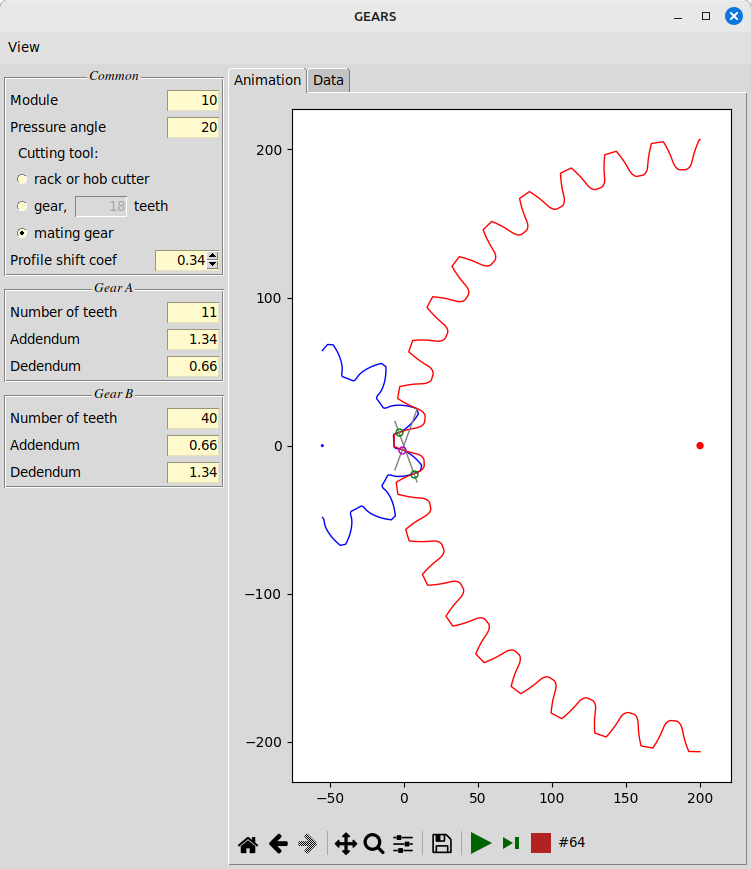
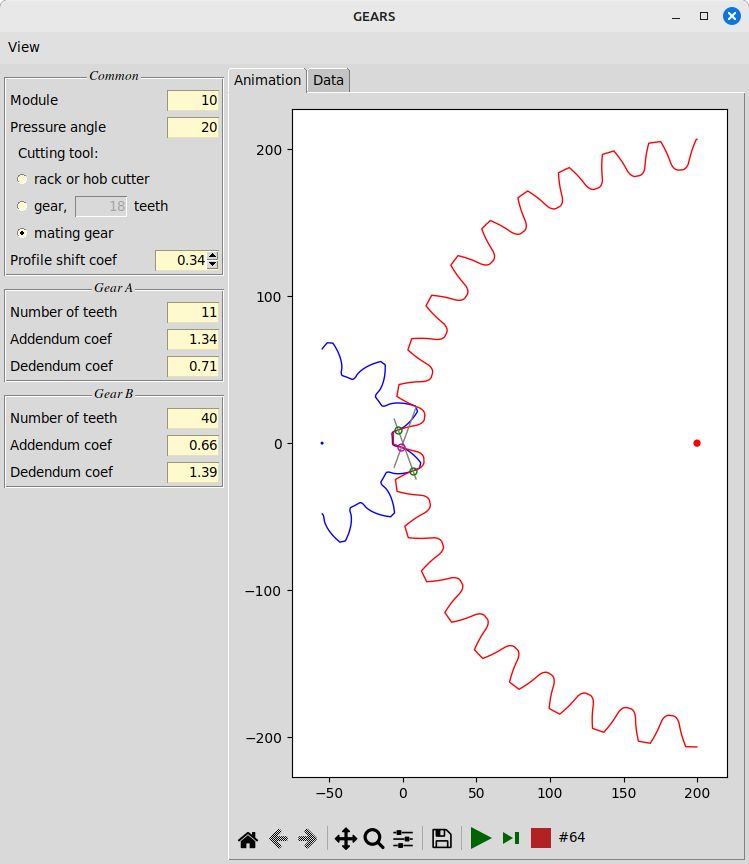
Minor fixes, update of docs

diff --git a/src/gears/gui.py b/src/gears/gui.py
@@ -275,12 +275,12 @@ class InputFrame(Frame):
         self.tooth_num0.grid(row=0, column=1, padx=2, pady=2, sticky=E)
         self.tooth_num0.insert(END, '40')
 
-        Label(params0_frame, text='Addendum').grid(row=1, column=0, padx=2, pady=2, sticky=W)
+        Label(params0_frame, text='Addendum coef').grid(row=1, column=0, padx=2, pady=2, sticky=W)
         self.ad_coef0 = EntryValid(params0_frame, self.input_callback, check_pos_finite, width=6, justify='right')
         self.ad_coef0.grid(row=1, column=1, padx=2, pady=2, sticky=E)
         self.ad_coef0.insert(END, '1')
 
-        Label(params0_frame, text='Dedendum').grid(row=2, column=0, padx=2, pady=2, sticky=W)
+        Label(params0_frame, text='Dedendum coef').grid(row=2, column=0, padx=2, pady=2, sticky=W)
         self.de_coef0 = EntryValid(params0_frame, self.input_callback, check_pos_finite, width=6, justify='right')
         self.de_coef0.grid(row=2, column=1, padx=2, pady=2, sticky=E)
         self.de_coef0.insert(END, '1')
@@ -296,18 +296,17 @@ class InputFrame(Frame):
         self.tooth_num1.grid(row=0, column=1, padx=2, pady=2, sticky=E)
         self.tooth_num1.insert(END, '40')
 
-        Label(params1_frame, text='Addendum').grid(row=1, column=0, padx=2, pady=2, sticky=W)
+        Label(params1_frame, text='Addendum coef').grid(row=1, column=0, padx=2, pady=2, sticky=W)
         self.ad_coef1 = EntryValid(params1_frame, self.input_callback, check_pos_finite, width=6, justify='right')
         self.ad_coef1.grid(row=1, column=1, padx=2, pady=2, sticky=E)
         self.ad_coef1.insert(END, '1')
 
-        Label(params1_frame, text='Dedendum').grid(row=2, column=0, padx=2, pady=2, sticky=W)
+        Label(params1_frame, text='Dedendum coef').grid(row=2, column=0, padx=2, pady=2, sticky=W)
         self.de_coef1 = EntryValid(params1_frame, self.input_callback, check_pos_finite, width=6, justify='right')
         self.de_coef1.grid(row=2, column=1, padx=2, pady=2, sticky=E)
         self.de_coef1.insert(END, '1')
 
         self.input_fields = get_entry_valid_recur(self)
-        # self.cutter_callback()
 
     # Input callbacks
     def input_callback(self) -> None:

diff --git a/src/gears/tooth_profile.py b/src/gears/tooth_profile.py
@@ -215,30 +215,30 @@ class HalfTooth(GearParams):
     def get_curves_equations(self) -> dict[str, dict[str, Any]]:
         return {
             'involute': {
-                'x': 'r * (np.cos(t_) + t * np.sin(t_))',
-                'y': 'r * (np.sin(t_) - t * np.cos(t_))',
+                'x': 'r * (cos(t_) + t * sin(t_))',
+                'y': 'r * (sin(t_) - t * cos(t_))',
                 't_': 't + a0',
                 'params': self.involute_params,
                 'lims': self.involute_lims
             },
             'epitrochoid': {
-                'x': '(R - l) * np.cos(t_) + t * R * np.sin(t_)' if self.is_rack else
-                '(R + r) * np.cos(t_) - d * np.cos(R * t / r + t_)',
-                'y': '(R - l) * np.sin(t_) - t * R * np.cos(t_)' if self.is_rack else
-                '(R + r) * np.sin(t_) - d * np.sin(R * t / r + t_)',
+                'x': '(R - l) * cos(t_) + t * R * sin(t_)' if self.is_rack else
+                '(R + r) * cos(t_) - d * cos(R * t / r + t_)',
+                'y': '(R - l) * sin(t_) - t * R * cos(t_)' if self.is_rack else
+                '(R + r) * sin(t_) - d * sin(R * t / r + t_)',
                 't_': 't + a0',
                 'params': self.epitrochoid_params,
                 'lims': self.epitrochoid_lims
             },
             'outside circle': {
-                'x': 'r * np.cos(t)',
-                'y': 'r * np.sin(t)',
+                'x': 'r * cos(t)',
+                'y': 'r * sin(t)',
                 'params': self.outside_circle_params,
                 'lims': self.outside_circle_lims
             },
             'root circle': {
-                'x': 'r * np.cos(t)',
-                'y': 'r * np.sin(t)',
+                'x': 'r * cos(t)',
+                'y': 'r * sin(t)',
                 'params': self.root_circle_params,
                 'lims': self.root_circle_lims
             }

diff --git a/README.md b/README.md
@@ -9,7 +9,7 @@ deformation under load, weight, etc., depending on the needs and capabilities of
 ![Contact zoom in](Contact_zoom_in.png)
 
 # Build
-Go to the directory with ```pyproject.toml``` file and run
+Clone the repository, or download it as archive and unzip. Go to the directory with ```pyproject.toml``` file and run
 ```
 python -m build
 ```
@@ -46,19 +46,34 @@ with another parameters, first click the __STOP__ button ![Stop button](src/gear
 
 ## Menu bar
 ### View menu
-Using the dropdown view menu, the plot components can be displayed or hidden.
+Using the dropdown view menu, the plot components can be displayed or hidden:
+* Gear A
+* Gear B
+* Action line
+* Contact points
+* Rack
 
 ## Sidebar
 Invalid input data is marked with pink background. User cannot start new simulation with invalid data (the
 [__PLAY__](src/gears/images/play.png) button is disabled).
 
 ### Common
+_module_ = _pitch diameter_ / _number of tooth_. Roughly speaking, it is the size of tooth.
+
+The _pressure angle_ is the angle at the pitch point between the action line and the tangent to the pitch circle.
+
 Сhoiсe of the cutting tool affects the shape of epitrochoid. To avoid pinion tooth undercut (find it in the __Data__
 tab), select the proper
 _Profile shift coef_. If to click __Up__ and __Down__ buttons, addendums and dedendums instantly follow changes of
 _Profile shift coef_. However, if the later should be changed alone, please enter the value from the keyboard.
 
 ### Gear A / B
+The _number of teeth_ should be integer.
+
+_addendum coef_ = _addendum_ / _module_
+
+_dedendum coef_ = _dedendum_ / _module_
+
 If _dedendum A_ equals _addendum B_ and vice versa (default settings), there is the tightest possible contact between
 gears, so then their corners touch epitrochoids of the mating gear. In practical machinery, some extra value is added
 to the dedendum.
@@ -69,13 +84,25 @@ standard toolbar
 with a few extra buttons to support video. Animation can be paused ![Pause button](src/gears/images/pause.png), resumed
 ![Play button](src/gears/images/play.png), stopped ![Stop button](src/gears/images/stop.png) or scrolled manually
 ![Next button](src/gears/images/next.png) frame by
-frame.
+frame. The defauld Matplotlib buttons are:
+* Reset original view
+* Back to previous view
+* Forward to next view
+* Left button pans
+* Zoom to rectangle
+* Configure subplots
+* Save the figure
 
 ## Data tab
+The equations of the tooth curves are given in the parametric form, where _x_ and _y_ are curve point coordinates in mm,
+_t_ is the variable parameter given as a range, and _t__ is the auxiliary variable computed out of _t_. The rest is
+constants.
+
 ![Textual_data_tab](Textual_data_tab.png)
 
 Click on the __SAVE__ button to save output in the _.txt_ format.
 
 # Roadmap
 * Inner gears
+* Asymmetrical teeth
 * Bevel gears
